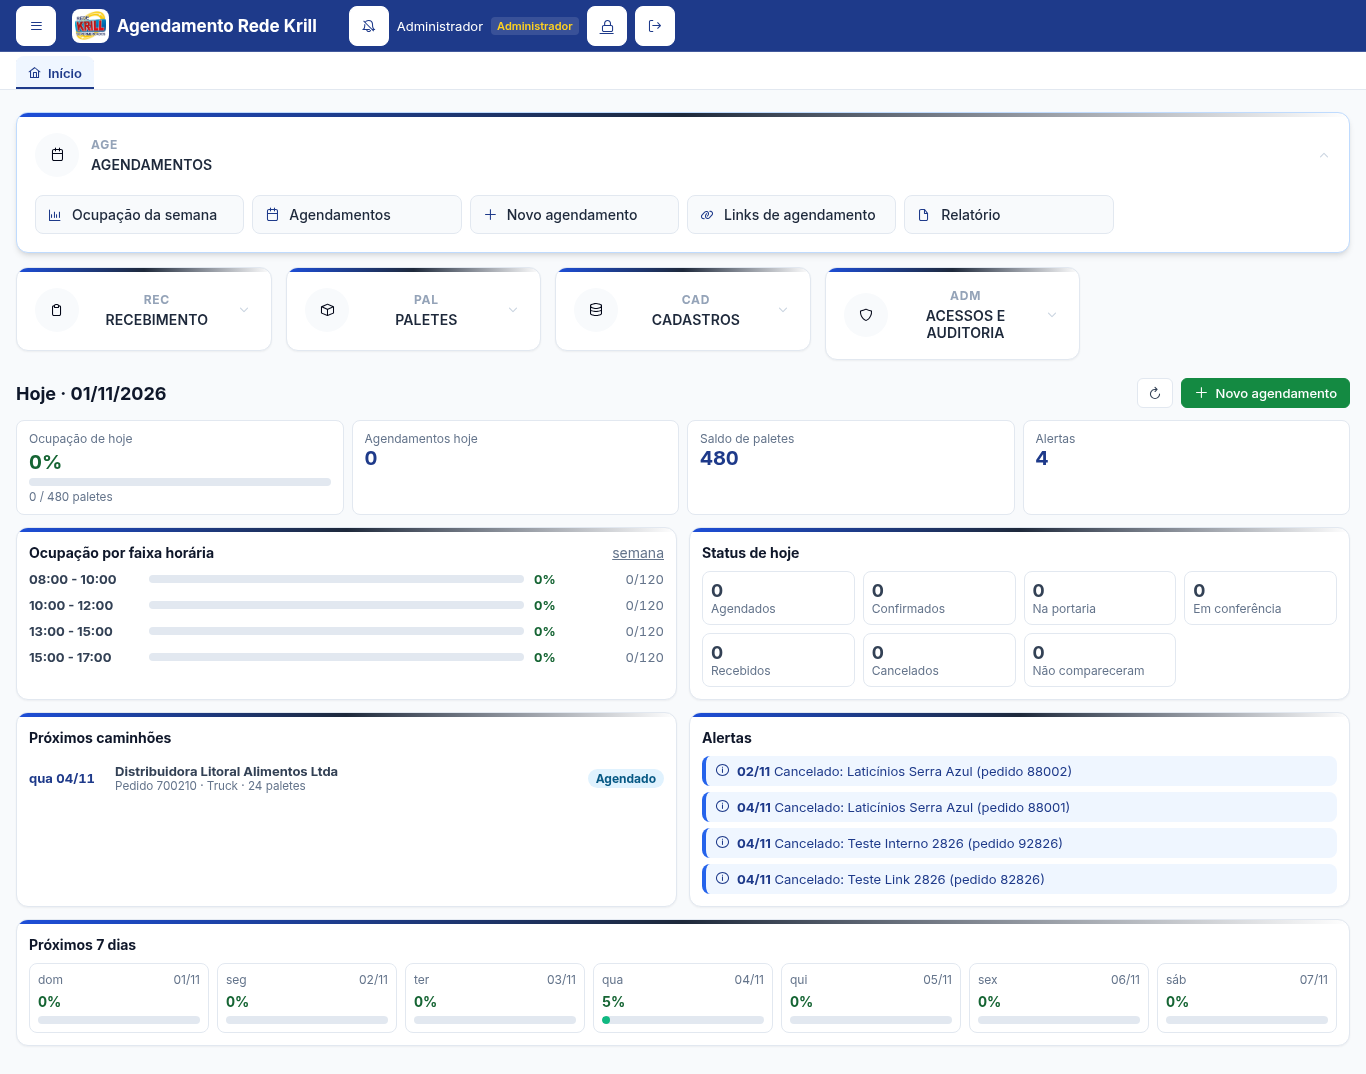
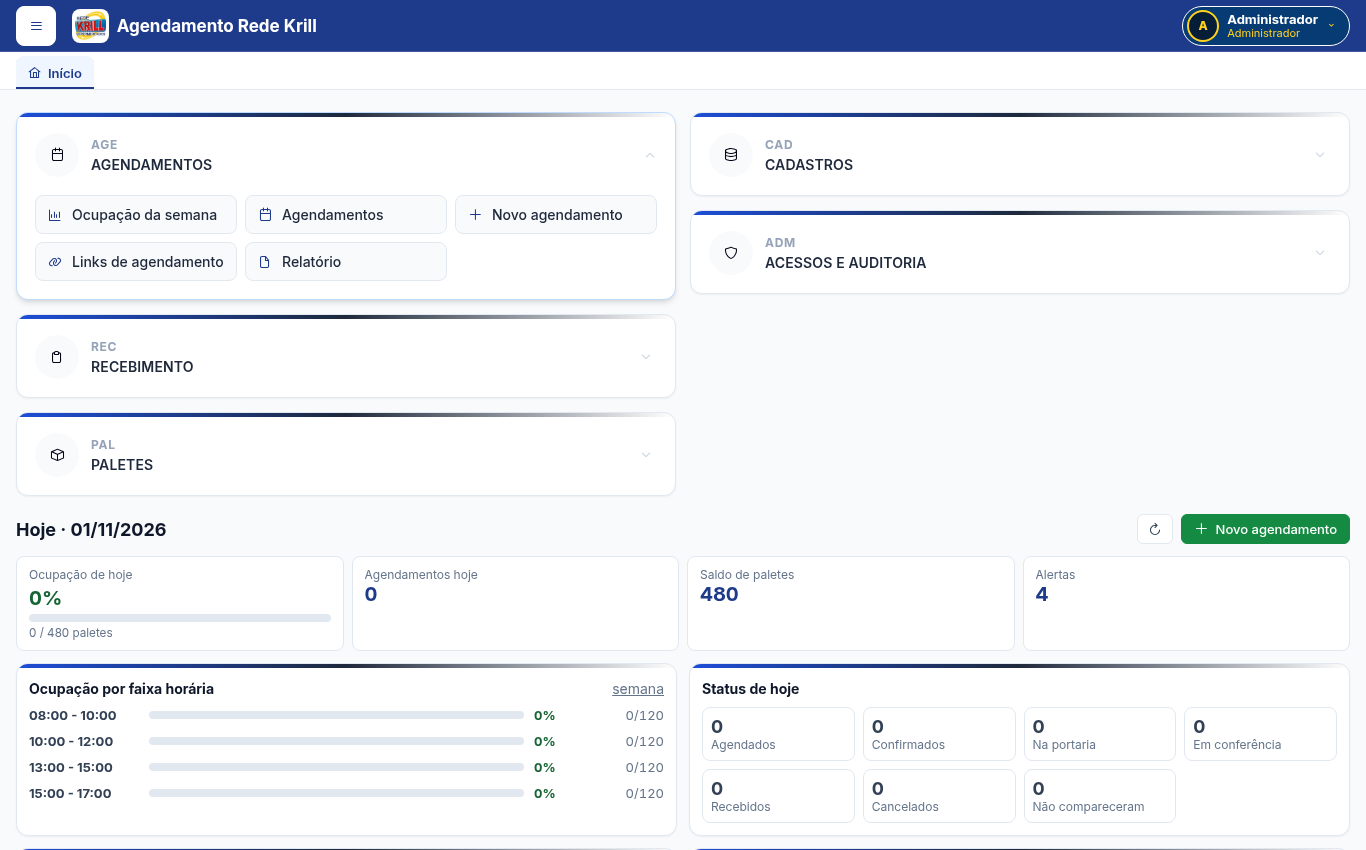
feat: grade do Início em duas colunas e menu do usuário no padrão do Gestão CD
- Cinco grupos em duas colunas iguais (3 + 2); o grupo abre no lugar, sem ocupar a linha inteira
- Menu do usuário à direita: avatar com iniciais, nome e perfil; Notificações, Trocar senha e Sair dentro do menu

diff --git a/frontend/src/styles/app.css b/frontend/src/styles/app.css
@@ -54,8 +54,18 @@ h1, h2, h3 { color: var(--cor-titulo); }
 .marca img { height: 34px; width: auto; aspect-ratio: 570 / 528; object-fit: contain; background: var(--gc-panel); border-radius: 8px; padding: 2px 3px; }
 .marca span { font-size: 17px; font-weight: 700; }
 .marca small { font-weight: 500; font-size: 13px; color: var(--gc-tab-text); }
-.usuario { display: flex; align-items: center; gap: 8px; font-size: 13px; white-space: nowrap; }
-.usuario .perfil { font-size: 11px; padding: 2px 6px; border-radius: 4px; background: var(--gc-topbar-hover); color: var(--gc-yellow-400); font-weight: 600; }
+.user-menu { position: relative; flex: 0 0 auto; }
+.user-trigger { display: inline-flex; align-items: center; gap: 8px; max-width: 240px; min-height: 40px; padding: 3px 12px 3px 4px; border: 1px solid var(--gc-topbar-control-border); border-radius: 999px; background: var(--gc-blue-900); color: var(--gc-topbar-text); cursor: pointer; font: inherit; text-align: left; }
+.user-trigger:hover, .user-menu.aberto .user-trigger { background: var(--gc-blue-950); border-color: var(--gc-yellow-400); }
+.user-avatar { display: inline-grid; place-items: center; flex: 0 0 auto; width: 32px; height: 32px; border-radius: 50%; background: var(--gc-blue-950); border: 2px solid var(--gc-yellow-400); color: var(--gc-yellow-400); font-size: 12px; font-weight: 800; }
+.user-ident { display: grid; min-width: 0; line-height: 1.15; }
+.user-ident strong { font-size: 13px; overflow: hidden; text-overflow: ellipsis; white-space: nowrap; }
+.user-ident small { font-size: 11px; color: var(--gc-yellow-400); overflow: hidden; text-overflow: ellipsis; white-space: nowrap; }
+.user-trigger .pi { color: var(--gc-yellow-400); font-size: 11px; }
+.user-dropdown { position: absolute; right: 0; top: calc(100% + 8px); z-index: 30; display: grid; gap: 4px; width: 220px; padding: 8px; background: var(--gc-panel); border: 1px solid var(--gc-border); border-radius: 8px; box-shadow: 0 10px 24px rgba(15, 23, 42, .16); }
+.user-dropdown a, .user-dropdown button { display: flex; align-items: center; justify-content: space-between; width: 100%; padding: 10px 11px; border: 0; border-radius: 8px; background: transparent; color: var(--gc-blue-950); font: inherit; font-weight: 700; text-decoration: none; cursor: pointer; }
+.user-dropdown a:hover, .user-dropdown button:hover { background: var(--gc-navy-50); }
+.user-dropdown .sair { color: var(--gc-red-600); }
 .btn-topo {
   background: var(--gc-panel); border: 1px solid var(--gc-panel); color: var(--gc-navy); border-radius: var(--raio);
   height: 40px; min-width: 40px; font-size: 16px; justify-content: center; padding: 0 8px; cursor: pointer; display: inline-flex; align-items: center; gap: 6px;
@@ -191,7 +201,8 @@ pre.json { background: var(--cor-campo); border-radius: var(--raio); padding: 8p
 }
 @media (max-width: 860px) {
   .btn-hamburguer { display: inline-flex; }
-  .usuario .nome { display: none; }
+  .user-ident { display: none; }
+  .user-trigger { padding-right: 8px; }
   .marca small { display: none; }
   .topo { gap: 8px; }
   .espaco { flex: 1; }
@@ -205,7 +216,7 @@ pre.json { background: var(--cor-campo); border-radius: var(--raio); padding: 8p
   .detalhes { grid-template-columns: 1fr; gap: 2px; }
   .detalhes dd { margin-bottom: 6px; }
   .rodape-form .p-button { flex: 1; justify-content: center; }
-  .usuario .perfil, .marca span { display: none; }
+  .marca span { display: none; }
 }
 .menu-lateral { display: flex; flex-direction: column; gap: 2px; }
 .menu-lateral a { padding: 10px 12px; border-radius: var(--raio); color: var(--cor-texto); text-decoration: none; font-weight: 500; display: flex; gap: 10px; align-items: center; }
@@ -253,21 +264,22 @@ pre.json { background: var(--cor-campo); border-radius: var(--raio); padding: 8p
 .centrais { display: grid; gap: 14px; margin-bottom: 18px; }
 .central-card { position: relative; overflow: hidden; background: var(--gc-panel); border: 1px solid var(--gc-border); border-radius: 12px; box-shadow: 0 1px 2px rgba(0, 0, 0, .05); }
 .central-card:hover { box-shadow: 0 4px 6px -1px rgba(0, 0, 0, .1), 0 2px 4px -2px rgba(0, 0, 0, .1); }
-.central-gatilho { width: 100%; display: grid; grid-template-columns: 44px 1fr 18px; align-items: center; gap: 12px; padding: 20px 18px 18px; background: transparent; border: 0; cursor: pointer; font: inherit; text-align: center; }
+.central-gatilho { width: 100%; display: grid; grid-template-columns: 44px 1fr 18px; align-items: center; gap: 12px; padding: 20px 18px 18px; background: transparent; border: 0; cursor: pointer; font: inherit; text-align: left; }
 .central-gatilho:focus-visible { outline: 2px solid var(--gc-focus); outline-offset: -2px; border-radius: 12px; }
 .central-icone { width: 48px; height: 48px; border-radius: 50%; background: var(--gc-icone-circulo); color: var(--gc-icone); display: grid; place-items: center; font-size: 20px; }
 .central-nome strong { display: block; color: var(--gc-card-titulo); font-size: 16px; font-weight: 600; text-transform: uppercase; letter-spacing: .01em; margin-top: 4px; }
 .central-chevron { color: var(--gc-chevron); font-size: 14px; transition: transform .2s; }
 .central-card.aberto .central-chevron { transform: rotate(180deg); }
 .central-card { transition: box-shadow .2s, border-color .2s; }
-.central-card.aberto { grid-column: 1 / -1; border-color: var(--gc-navy-200); }
-.central-card.aberto .central-gatilho { text-align: left; }
+.central-card.aberto { border-color: var(--gc-navy-200); }
 @keyframes central-abrir { from { opacity: 0; transform: translateY(-4px); } to { opacity: 1; transform: none; } }
 .central-links { animation: central-abrir .18s ease-out; display: grid; grid-template-columns: repeat(auto-fill, minmax(200px, 1fr)); gap: 8px; padding: 0 18px 18px; }
 .central-links a { display: flex; align-items: center; gap: 10px; padding: 10px 12px; border: 1px solid var(--gc-border); border-radius: var(--raio); background: var(--gc-zebra); color: var(--gc-card-titulo); text-decoration: none; font-weight: 500; }
 .central-links a:hover { background: var(--gc-navy-50); border-color: var(--gc-navy-200); color: var(--gc-navy); }
 .central-links a i { color: var(--gc-navy); }
-.centrais { grid-template-columns: repeat(auto-fit, minmax(220px, 1fr)); align-items: start; }
+.centrais { grid-template-columns: 1fr; align-items: start; }
+@media (min-width: 760px) { .centrais { grid-template-columns: repeat(2, minmax(0, 1fr)); } }
+.centrais-coluna { display: flex; flex-direction: column; gap: 14px; min-width: 0; }
 .central-nome strong { font-size: 14px; }
 .central-icone { width: 44px; height: 44px; }
 
@@ -325,3 +337,4 @@ pre.json { background: var(--cor-campo); border-radius: var(--raio); padding: 8p
   .mdi-celular { display: flex; align-items: center; gap: 10px; min-height: 42px; padding: 0 12px; background: var(--gc-panel); border-bottom: 1px solid var(--gc-border); color: var(--gc-card-titulo); }
   .mdi-home { display: inline-grid; place-items: center; width: 30px; height: 30px; border-radius: var(--raio); color: var(--gc-navy); background: var(--gc-navy-50); text-decoration: none; }
 }
+.espaco { flex: 1; }

diff --git a/frontend/src/App.vue b/frontend/src/App.vue
@@ -12,6 +12,9 @@ import AbasMdi from './components/AbasMdi.vue'
 
 const route = useRoute()
 const router = useRouter()
+const menuUsuario = ref(false)
+const iniciais = computed(() => (sessao.atual?.nome || sessao.atual?.usuario || '?').split(/\s+/).filter(Boolean).slice(0, 2).map((p) => p[0]).join('').toUpperCase())
+const fecharMenuUsuario = () => { menuUsuario.value = false }
 watch(() => route.fullPath, () => { if (logado.value) abrirAba(route) }, { immediate: true })
 const notificar = useNotificar()
 const menuAberto = ref(false)
@@ -25,12 +28,14 @@ const itensPlanos = computed(() => itens.value.flatMap((g) => g.itens))
 const atualizarRede = () => { online.value = navigator.onLine }
 onMounted(async () => {
   window.addEventListener('online', atualizarRede)
+  document.addEventListener('click', fecharMenuUsuario)
   window.addEventListener('offline', atualizarRede)
   pushAtivo.value = !!(await inscricaoAtual().catch(() => null))
   if (logado.value) api('/auth/eu').then(atualizarSessao).catch(() => {})
 })
 onUnmounted(() => {
   window.removeEventListener('online', atualizarRede)
+  document.removeEventListener('click', fecharMenuUsuario)
   window.removeEventListener('offline', atualizarRede)
 })
 
@@ -68,20 +73,17 @@ async function sair() {
         <span>Agendamento Rede Krill</span>
       </RouterLink>
       <div class="espaco" />
-      <div class="usuario">
-        <button
-          v-if="pushSuportado()"
-          class="btn-topo"
-          :class="{ ativo: pushAtivo }"
-          :title="pushAtivo ? 'Desativar notificações' : 'Ativar notificações'"
-          @click="alternarPush"
-        >
-          <i :class="pushAtivo ? 'pi pi-bell' : 'pi pi-bell-slash'" />
+      <div class="user-menu" :class="{ aberto: menuUsuario }">
+        <button type="button" class="user-trigger" aria-haspopup="true" :aria-expanded="menuUsuario" :title="sessao.atual?.nome" @click.stop="menuUsuario = !menuUsuario">
+          <span class="user-avatar">{{ iniciais }}</span>
+          <span class="user-ident"><strong>{{ sessao.atual?.nome }}</strong><small>{{ sessao.atual?.perfil }}</small></span>
+          <i class="pi pi-angle-down" />
         </button>
-        <span class="nome">{{ sessao.atual?.nome }}</span>
-        <span class="perfil">{{ sessao.atual?.perfil }}</span>
-        <RouterLink class="btn-topo" to="/trocar-senha" title="Trocar senha" aria-label="Trocar senha"><i class="pi pi-lock" /></RouterLink>
-        <button class="btn-topo" title="Sair" @click="sair"><i class="pi pi-sign-out" /></button>
+        <div v-if="menuUsuario" class="user-dropdown" role="menu" @click="menuUsuario = false">
+          <button v-if="pushSuportado()" type="button" role="menuitem" @click="alternarPush">{{ pushAtivo ? 'Desativar notificações' : 'Ativar notificações' }}<span>›</span></button>
+          <RouterLink to="/trocar-senha" role="menuitem">Trocar senha<span>›</span></RouterLink>
+          <button type="button" class="sair" role="menuitem" @click="sair">Sair<span>›</span></button>
+        </div>
       </div>
     </header>
     <div v-if="!online" class="offline">Sem conexão. Os dados serão atualizados quando a rede voltar.</div>

diff --git a/frontend/src/views/InicioView.vue b/frontend/src/views/InicioView.vue
@@ -16,6 +16,7 @@ const carregando = ref(false)
 let timer
 
 const centrais = computed(() => menuItens().map((g) => ({ ...g, ...CENTRAIS[g.grupo] })))
+const colunas = computed(() => [centrais.value.slice(0, 3), centrais.value.slice(3)].filter((c) => c.length))
 const aberta = ref(null)
 const alternar = (g) => { aberta.value = aberta.value === g ? null : g }
 
@@ -44,7 +45,8 @@ onUnmounted(() => clearInterval(timer))
 
 <template>
   <div class="centrais">
-    <div v-for="c in centrais" :key="c.grupo" class="central-card" :class="{ aberto: aberta === c.grupo }">
+    <div v-for="(coluna, ci) in colunas" :key="ci" class="centrais-coluna">
+    <div v-for="c in coluna" :key="c.grupo" class="central-card" :class="{ aberto: aberta === c.grupo }">
       <button type="button" class="central-gatilho" :aria-expanded="aberta === c.grupo" @click="alternar(c.grupo)">
         <span class="central-icone"><i :class="c.icone" /></span>
         <span class="central-nome"><span class="eyebrow">{{ c.sigla }}</span><strong>{{ c.titulo }}</strong></span>
@@ -53,6 +55,7 @@ onUnmounted(() => clearInterval(timer))
       <nav v-if="aberta === c.grupo" class="central-links">
         <RouterLink v-for="i in c.itens" :key="i.to" :to="i.to"><i :class="i.icon" />{{ i.label }}</RouterLink>
       </nav>
+    </div>
     </div>
   </div>
 

diff --git a/frontend/tests/telas/InicioView.spec.js b/frontend/tests/telas/InicioView.spec.js
@@ -11,6 +11,7 @@ describe('InicioView e menu único', () => {
     simularApi({ 'GET /dashboard': erroHttp(500, 'fora') })
     const { w } = await montar(InicioView)
     expect(w.find('h1').text()).toContain('Hoje')
+    expect(w.findAll('.centrais-coluna').map((c) => c.findAll('.central-card').length)).toEqual([3, 2])
     const cards = w.findAll('.central-card')
     expect(cards.map((c) => c.find('.eyebrow').text())).toEqual(['AGE', 'REC', 'PAL', 'CAD', 'ADM'])
     await cards[0].find('button').trigger('click')

diff --git a/README.md b/README.md
@@ -59,7 +59,7 @@ Relatório de cobertura: `backend/target/site/jacoco/index.html`.
 
 ## Menu
 
-Um único menu: a grade de módulos da tela inicial (AGE, REC, PAL, CAD, ADM) e o menu lateral (☰) usam os mesmos grupos, e cada tela aparece uma vez só. Abaixo da grade fica o painel do dia: ocupação do dia e por faixa, status, próximos caminhões e alertas.
+Um único menu: a grade de módulos da tela inicial (AGE, REC, PAL, CAD, ADM, em duas colunas) e o menu lateral (☰) usam os mesmos grupos, e cada tela aparece uma vez só. Abaixo da grade fica o painel do dia: ocupação do dia e por faixa, status, próximos caminhões e alertas.
 
 Cada tela aberta vira uma aba abaixo do cabeçalho (Início fica fixa): a aba guarda o estado da tela, fecha no × ou com o botão do meio do mouse e pode ser arrastada para mudar a ordem. No celular, a barra mostra o nome da tela e um atalho para o Início.
 
